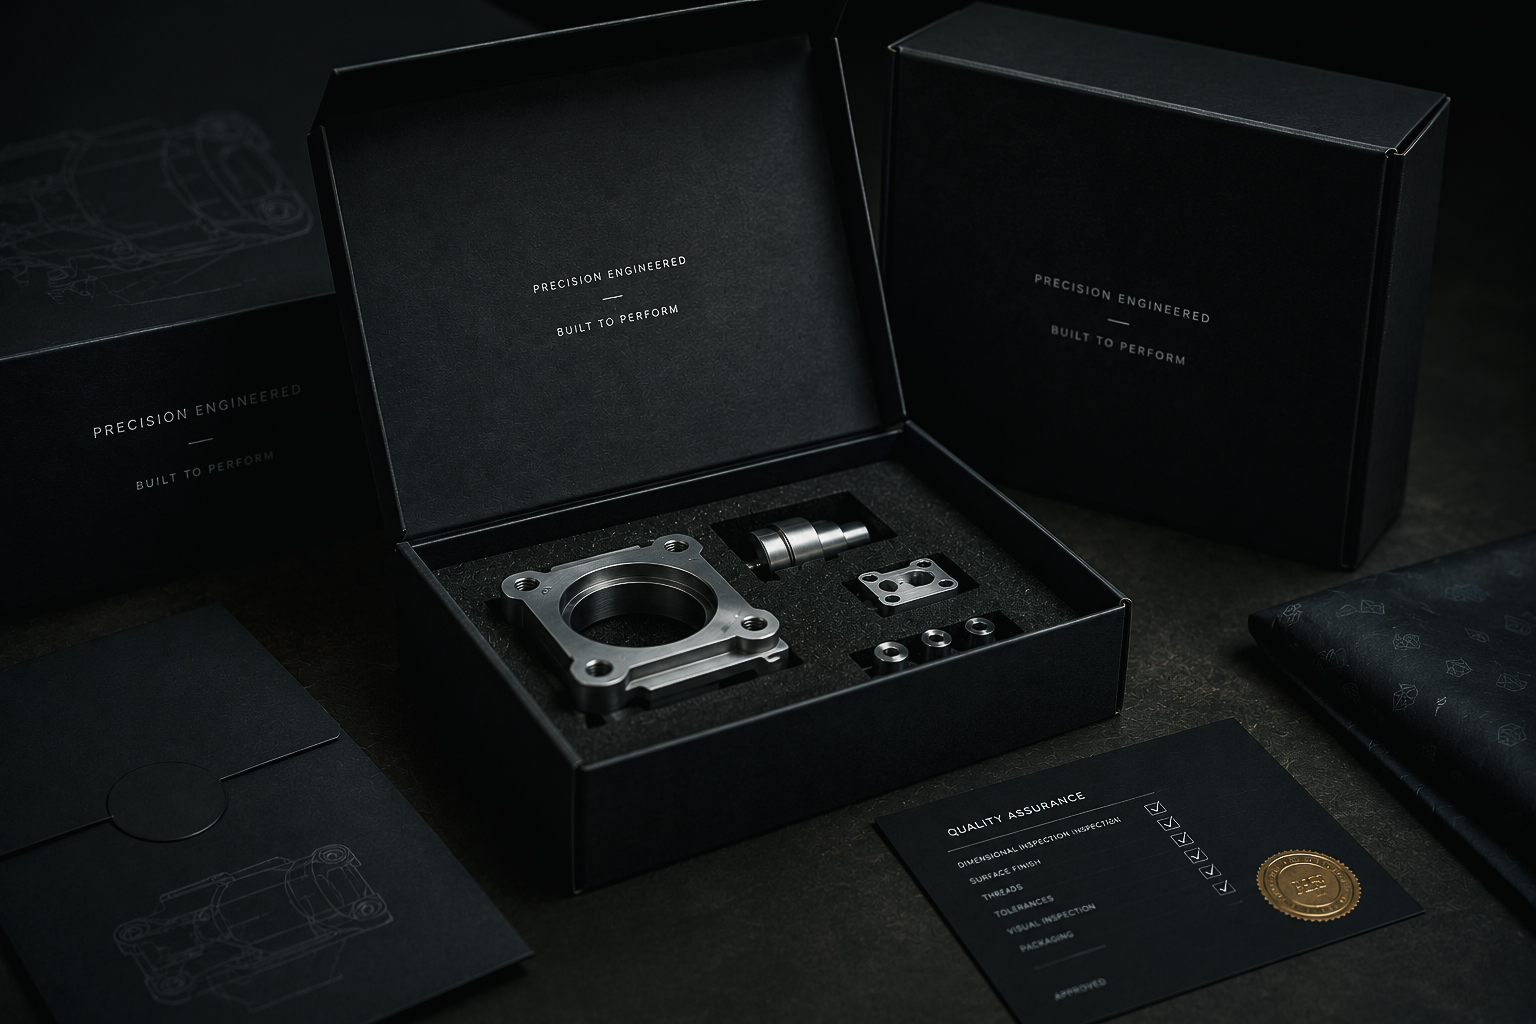
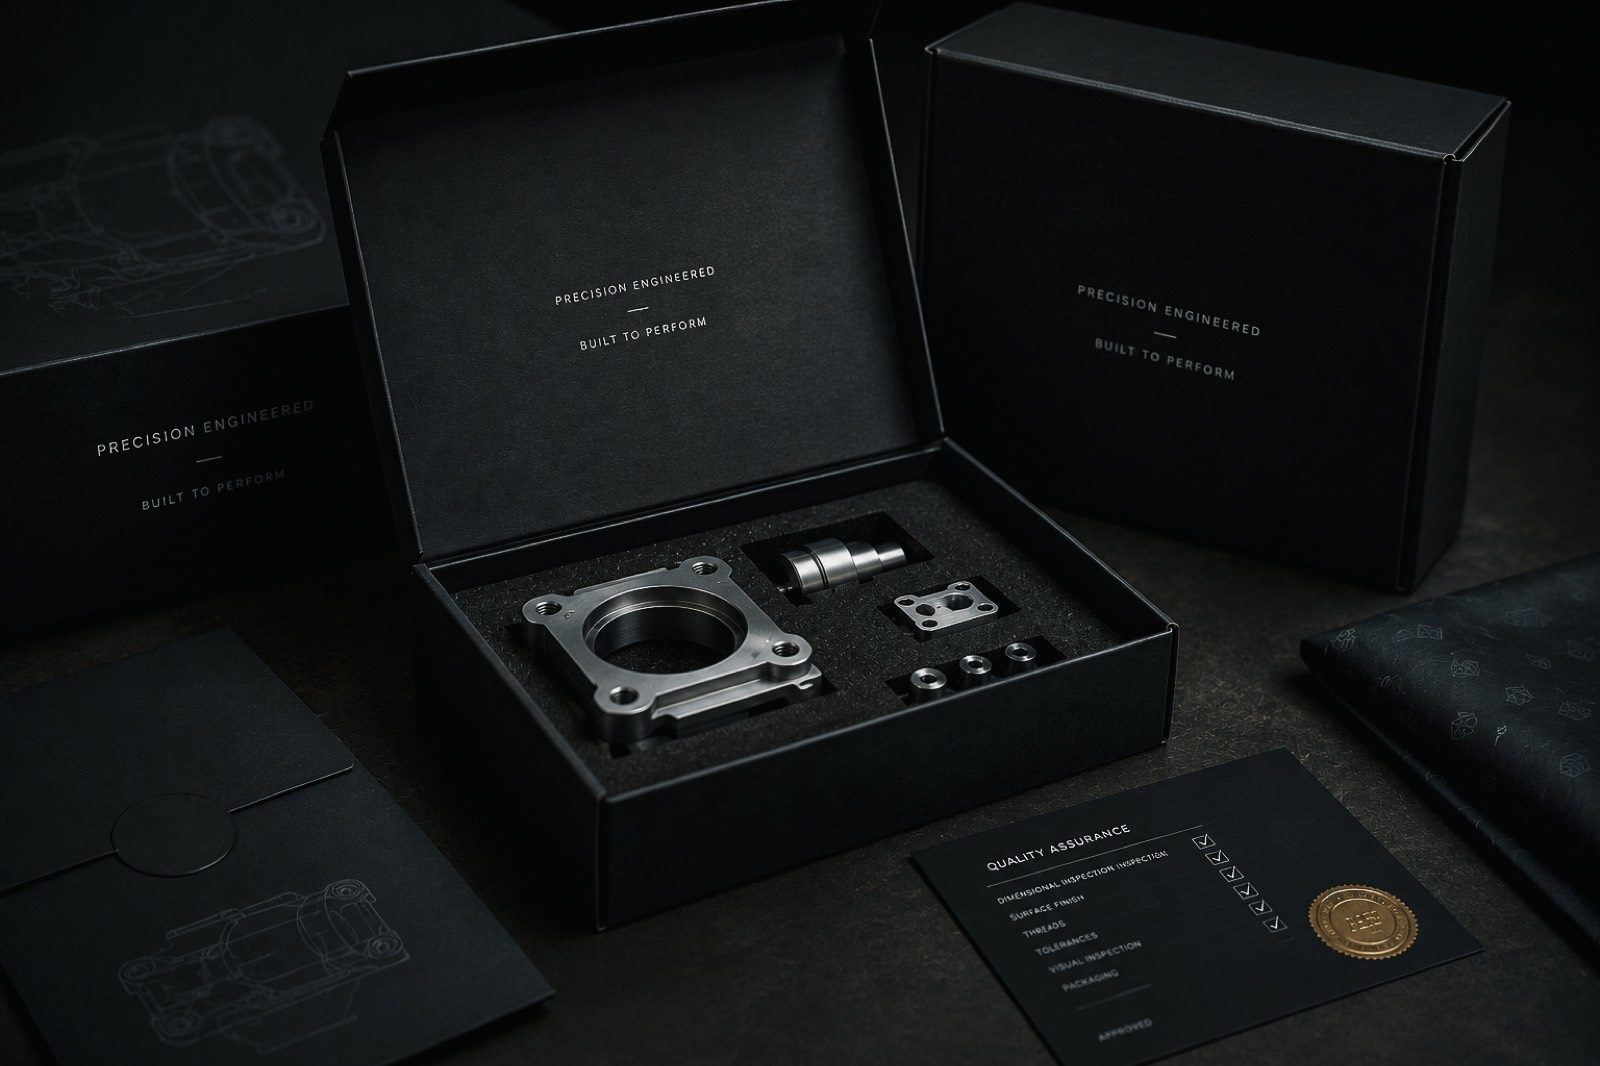
Use image3.jpg for Packaging card

diff --git a/index.html b/index.html
@@ -507,7 +507,7 @@ src="https://www.facebook.com/tr?id=YOUR_PIXEL_ID&ev=PageView&noscript=1"/></nos
         <div class="cap-body"><h3>3D Printing &amp; Prototyping</h3><p>Industrial-grade additive for functional prototypes and short runs. First parts in hand within days — ideal for design validation before tooling up.</p><div class="cap-foot"><span>Min. lead</span><b>48 hours</b></div></div>
       </article>
       <article class="cap">
-        <div class="cap-img" style="background-image:url('hero3.jpg');background-position:center 80%;"><span class="badge">Retail-ready</span></div>
+        <div class="cap-img" style="background-image:url('image3.jpg');background-position:center 80%;"><span class="badge">Retail-ready</span></div>
         <div class="cap-body"><h3>Packaging &amp; Presentation</h3><p>Custom boxes, inserts, branded inserts, retail-ready packaging. We can ship sellable units to your warehouse or fulfil direct from the factory.</p><div class="cap-foot"><span>MOQ</span><b>From 100 units</b></div></div>
       </article>
     </div>